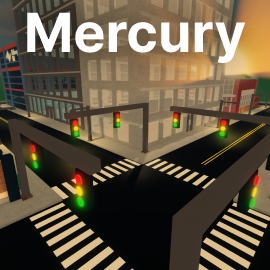
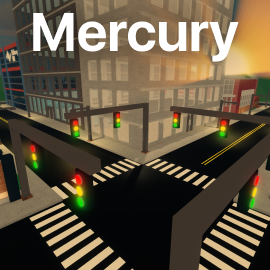
Update place thumbnails from Inter font to SF UI Bold font

Changed region(s): [[0.0889, 0.0296, 0.9185, 0.237]]

diff --git a/src/routes/(main)/place/[id]/[name]/+page.svelte b/src/routes/(main)/place/[id]/[name]/+page.svelte
@@ -94,7 +94,7 @@
 			<div class="carousel-inner rounded-4">
 				{#each images as src, i}
 					<div class="carousel-item" class:active={!i}>
-						<img {src} class="d-block w-100" alt="..." />
+						<img {src} class="d-block w-100" alt="Placeholder place thumbnail" />
 					</div>
 				{/each}
 			</div>
